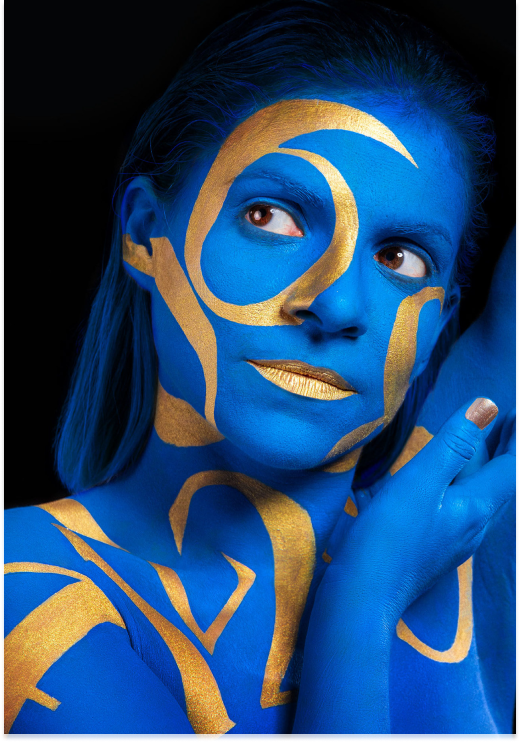
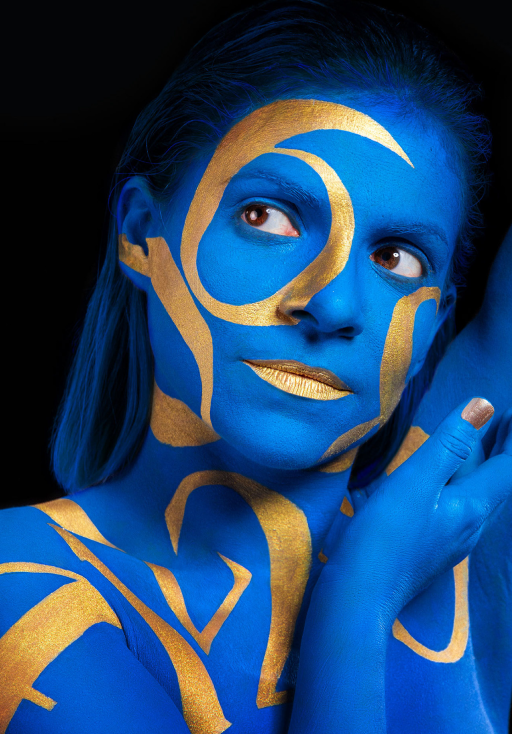
matted images added

Changed region(s): [[0.0, 0.0, 1.0, 1.0], [0.7812, 0.2098, 0.8125, 0.2398], [0.3438, 0.1798, 0.375, 0.2098]]

diff --git a/my-react-app/src/components/ProductSlidermain.jsx b/my-react-app/src/components/ProductSlidermain.jsx
@@ -1,4 +1,3 @@
-// ✅ Updated ProductSlider.jsx
 import React, { useRef, useEffect, useState, useMemo } from "react";
 import { Swiper, SwiperSlide } from "swiper/react";
 import "swiper/css";
@@ -58,13 +57,10 @@ const drawSolidShadow = (
 const drawToCanvas = async ({
   canvas,
   baseSrc,
-  mattedSrc1, // ✅ Matting option 1
-  mattedSrc2, // ✅ Matting option 2
-  mattedSrc3, // ✅ Matting option 3
-  selectedMattingOption, // ✅ 1, 2, or 3
   frame,
   border,
   matting,
+  colorFilter,
   width,
   height,
   sceneBg,
@@ -73,26 +69,15 @@ const drawToCanvas = async ({
   shadowDistance = 8,
   shadowColor = "rgba(0,0,0,0.5)",
 }) => {
-  if (!canvas) return;
+  if (!canvas || !baseSrc) return;
   const ctx = canvas.getContext("2d");
-
-  const [
-    baseImg,
-    mattedImg1,
-    mattedImg2,
-    mattedImg3,
-    frameImg,
-    maskImg,
-    sceneImg,
-  ] = await Promise.all([
+  const [baseImg, frameImg, maskImg, sceneImg] = await Promise.all([
     loadImage(baseSrc),
-    loadImage(mattedSrc1),
-    loadImage(mattedSrc2),
-    loadImage(mattedSrc3),
     loadImage(frame?.src),
     loadImage(frame?.mask),
     loadImage(sceneBg),
   ]);
+  if (!baseImg) return;
 
   canvas.width = width;
   canvas.height = height;
@@ -107,33 +92,82 @@ const drawToCanvas = async ({
 
   const baseWidth = 512;
   const baseHeight = 734;
+  const matSize = matting?.size || 0;
 
-  // Temp canvas
+  // Temp canvas for matting + image + frame
   const tempCanvas = document.createElement("canvas");
   tempCanvas.width = baseWidth;
   tempCanvas.height = baseHeight;
   const t = tempCanvas.getContext("2d");
 
-  // ✅ Use pre-matted images directly
-  if (selectedMattingOption === 1 && mattedImg1) {
-    t.drawImage(mattedImg1, 0, 0, baseWidth, baseHeight);
-  } else if (selectedMattingOption === 2 && mattedImg2) {
-    t.drawImage(mattedImg2, 0, 0, baseWidth, baseHeight);
-  } else if (selectedMattingOption === 3 && mattedImg3) {
-    t.drawImage(mattedImg3, 0, 0, baseWidth, baseHeight);
-  } else if (baseImg) {
-    // ❌ Commenting out old matting calculation
-    // t.fillStyle = matting?.color || "#fff";
-    // t.fillRect(0, 0, baseWidth, baseHeight);
-    // const innerX = matting?.size || 0;
-    // const innerY = matting?.size || 0;
-    // const innerW = baseWidth - innerX * 2;
-    // const innerH = baseHeight - innerY * 2;
-    // t.drawImage(baseImg, innerX, innerY, innerW, innerH);
+  // Fill matting background
+  t.fillStyle = matting?.color || "#fff";
+  t.fillRect(0, 0, baseWidth, baseHeight);
 
-    // ✅ If no matted image, fallback to original image
-    t.drawImage(baseImg, 0, 0, baseWidth, baseHeight);
+  // Inner box for image inside matting
+  const innerX = matSize;
+  const innerY = matSize;
+  const innerW = baseWidth - matSize * 2;
+  const innerH = baseHeight - matSize * 2;
+
+  //   Current 3 options we tried (all code-based)
+
+  // Shrink (fit inside mat box) → preserves whole image, equal matting, but image looks small.
+
+  // Crop (draw full, cut with mat window) → image scale stays correct, equal matting, but some parts are hidden.
+
+  // Proportional scale (no crop) → image not hidden, scale correct, but matting not equal.
+
+  // ============ white space equal but image shrink  ============= //
+  if (baseImg) {
+    t.drawImage(baseImg, innerX, innerY, innerW, innerH);
   }
+
+  // ============ white space not equal  ============= //
+  // if (baseImg) {
+  //   const imgAspect = baseImg.width / baseImg.height;
+  //   const boxAspect = innerW / innerH;
+
+  //   let dw, dh;
+
+  //   if (imgAspect > boxAspect) {
+
+  //     dw = innerW;
+  //     dh = dw / imgAspect;
+  //   } else {
+
+  //     dh = innerH;
+  //     dw = dh * imgAspect;
+  //   }
+
+  //   const dx = innerX + (innerW - dw) / 2;
+  //   const dy = innerY + (innerH - dh) / 2;
+
+  //   t.drawImage(baseImg, dx, dy, dw, dh);
+
+  //   t.save();
+  //   t.globalCompositeOperation = "destination-over";
+  //   t.fillStyle = "white";
+  //   t.fillRect(0, 0, baseWidth, baseHeight);
+  //   t.restore();
+  // }
+
+  // ============ white space equal but image cropped  =============== //
+  // if (baseImg) {
+
+  //   t.drawImage(baseImg, 0, 0, baseWidth, baseHeight);
+
+  //   t.save();
+  //   t.globalCompositeOperation = "destination-in";
+  //   t.fillRect(innerX, innerY, innerW, innerH);
+  //   t.restore();
+
+  //   t.save();
+  //   t.globalCompositeOperation = "destination-over";
+  //   t.fillStyle = "white";
+  //   t.fillRect(0, 0, baseWidth, baseHeight);
+  //   t.restore();
+  // }
 
   // Apply mask
   if (maskImg) {
@@ -157,7 +191,7 @@ const drawToCanvas = async ({
   // Frame
   if (frameImg) t.drawImage(frameImg, 0, 0, baseWidth, baseHeight);
 
-  // Shadow + Placement
+  // Thumbnail check
   const isThumb = width <= 120 || height <= 160;
 
   if (targetBox) {
@@ -204,10 +238,6 @@ function applyScale(box, scene, scale = 1) {
 
 export default function ProductSlider({
   productImages = [],
-  mattedImage1 = null, // ✅ option 1
-  mattedImage2 = null, // ✅ option 2
-  mattedImage3 = null, // ✅ option 3
-  selectedMattingOption = 0, // ✅ which matting is selected
   selectedColor = "original",
   selectedFrame = null,
   selectedBorder = null,
@@ -240,6 +270,11 @@ export default function ProductSlider({
       { bg: "/images/001.png", box: FIXED_BOX, scale: 0.4, x: 80, y: 150 },
       { bg: "/images/002.png", box: FIXED_BOX, scale: 0.4, x: 160, y: 100 },
       { bg: "/images/003.png", box: FIXED_BOX, scale: 0.3, x: 170, y: 120 },
+      { bg: "/images/004.png", box: FIXED_BOX, scale: 0.3, x: 70, y: 120 },
+      { bg: "/images/005.png", box: FIXED_BOX, scale: 0.3, x: 180, y: 120 },
+      { bg: "/images/006.png", box: FIXED_BOX, scale: 0.4, x: 150, y: 60 },
+      { bg: "/images/007.png", box: FIXED_BOX, scale: 0.4, x: 150, y: 60 },
+      { bg: "/images/008.png", box: FIXED_BOX, scale: 0.4, x: 150, y: 60 },
     ],
     []
   );
@@ -251,21 +286,17 @@ export default function ProductSlider({
 
   // Main canvas
   useEffect(() => {
-    if (!currentImage && !mattedImage1 && !mattedImage2 && !mattedImage3)
-      return;
+    if (!currentImage) return;
     const scene = scenePreviews[currentScene];
     const scaledBox = applyScale(scene.box, scene, scene.scale);
 
     drawToCanvas({
       canvas: mainCanvasRef.current,
       baseSrc: currentImage,
-      mattedSrc1: mattedImage1,
-      mattedSrc2: mattedImage2,
-      mattedSrc3: mattedImage3,
-      selectedMattingOption,
       frame: selectedFrame,
       border: selectedBorder,
       matting: selectedMatting,
+      colorFilter: colorFilters[selectedColor],
       width: MAIN_W,
       height: MAIN_H,
       sceneBg: scene.bg,
@@ -276,11 +307,54 @@ export default function ProductSlider({
     });
   }, [
     currentImage,
-    mattedImage1,
-    mattedImage2,
-    mattedImage3,
-    selectedMattingOption,
     currentScene,
+    selectedColor,
+    selectedFrame,
+    selectedBorder,
+    selectedMatting,
+    scenePreviews,
+    colorFilters,
+    lightDir,
+    shadowDistance,
+    shadowColor,
+  ]);
+
+  // Thumbnails
+  useEffect(() => {
+    if (!currentImage) return;
+
+    scenePreviews.forEach((scene, i) => {
+      const canvas = thumbRefs.current[i];
+      if (!canvas) return;
+
+      const scaledBox = applyScale(scene.box, scene, scene.scale);
+
+      const scaleFactor = THUMB_W / MAIN_W;
+      const thumbMatting = selectedMatting
+        ? {
+            ...selectedMatting,
+            size: Math.max(1, Math.round(selectedMatting.size * scaleFactor)),
+          }
+        : null;
+
+      drawToCanvas({
+        canvas,
+        baseSrc: currentImage,
+        frame: selectedFrame,
+        border: selectedBorder,
+        matting: thumbMatting,
+        colorFilter: colorFilters[selectedColor],
+        width: THUMB_W,
+        height: THUMB_H,
+        sceneBg: scene.bg,
+        targetBox: scaledBox,
+        lightDir,
+        shadowDistance,
+        shadowColor,
+      });
+    });
+  }, [
+    currentImage,
     selectedColor,
     selectedFrame,
     selectedBorder,
@@ -295,15 +369,28 @@ export default function ProductSlider({
   return (
     <div className="flex flex-col-reverse md:flex-row gap-6 justify-center lg:justify-end items-start">
       {/* Thumbnails */}
-      <div className="relative w-full md:w-[90px] flex flex-row md:flex-col overflow-x-auto md:overflow-visible">
+      <div
+        className="relative w-full md:w-[90px] flex flex-row md:flex-col overflow-x-auto md:overflow-visible"
+        style={{ height: "auto", maxHeight: "734px" }}
+      >
+        <div className="absolute top-0 left-0 w-full h-6 bg-gradient-to-b from-black/50 to-transparent pointer-events-none z-10 hidden md:block" />
         <Swiper
           direction="vertical"
           slidesPerView={6}
           spaceBetween={12}
           style={{ height: "100%" }}
+          className="thumbnail-swiper"
+          breakpoints={{
+            0: { direction: "horizontal", slidesPerView: 4, spaceBetween: 4 },
+            575: { direction: "horizontal", slidesPerView: 6, spaceBetween: 4 },
+            768: { direction: "vertical", slidesPerView: 6, spaceBetween: 12 },
+          }}
         >
           {scenePreviews.map((scene, i) => (
-            <SwiperSlide key={i}>
+            <SwiperSlide
+              key={i}
+              className="flex justify-center items-center p-2"
+            >
               <div className="flex flex-col items-center md:w-[70px] w-auto">
                 <canvas
                   ref={(el) => (thumbRefs.current[i] = el)}
@@ -316,10 +403,21 @@ export default function ProductSlider({
             </SwiperSlide>
           ))}
         </Swiper>
+        <div className="absolute bottom-0 left-0 w-full h-6 bg-gradient-to-t from-black/50 to-transparent pointer-events-none z-10 hidden md:block" />
       </div>
 
       {/* Main */}
       <div className="flex flex-col gap-3 md:gap-0 md:flex-row w-full">
+        <div className="text-left md:hidden block">
+          <h1 className="text-3xl font-bold mb-2 text-black">
+            Abstract Wall Art
+          </h1>
+          <p className="text-black leading-relaxed text-sm">
+            A modern abstract painting that brings luxury vibes to your living
+            space. High-quality print with customizable frames, matting, and
+            borders.
+          </p>
+        </div>
         <div className="w-full max-w-[512px] aspect-[512/734] border border-gray-200 bg-white overflow-hidden p-4 mx-auto">
           <canvas
             ref={mainCanvasRef}

diff --git a/my-react-app/src/components/ProductDetail.jsx b/my-react-app/src/components/ProductDetail.jsx
@@ -1,5 +1,5 @@
 import React, { useState, useMemo } from "react";
-import ProductSlider from "./ProductSlider";
+import ProductSlider from "./ProductSlidermain";
 import ColorSelector from "./ColorSelector";
 import FrameSelector from "./FrameSelector";
 import MattingSelector from "./MattingSelector";
@@ -70,12 +70,14 @@ export default function ProductDetail() {
   return (
     <div className="grid grid-cols-1 lg:grid-cols-[auto_1fr] md:gap-12 gap-6 md:p-8 p-8 md:py-18 py-10 items-start max-w-screen-2xl mx-auto">
       <ProductSlider
-        productImages={productImages}
+        productImages={["/images/art1.png"]}
+        mattedImage={"/images/art1-matted.png"} // ✅ 4th image
         selectedColor={selectedColor}
         selectedFrame={selectedFrame}
         selectedBorder={selectedBorder}
         selectedMatting={selectedMatting}
       />
+
       <div className="flex flex-col md:space-y-9 space-y-6">
         <div className="text-left hidden md:block">
           <h1 className="text-3xl font-bold mb-2 text-black">
